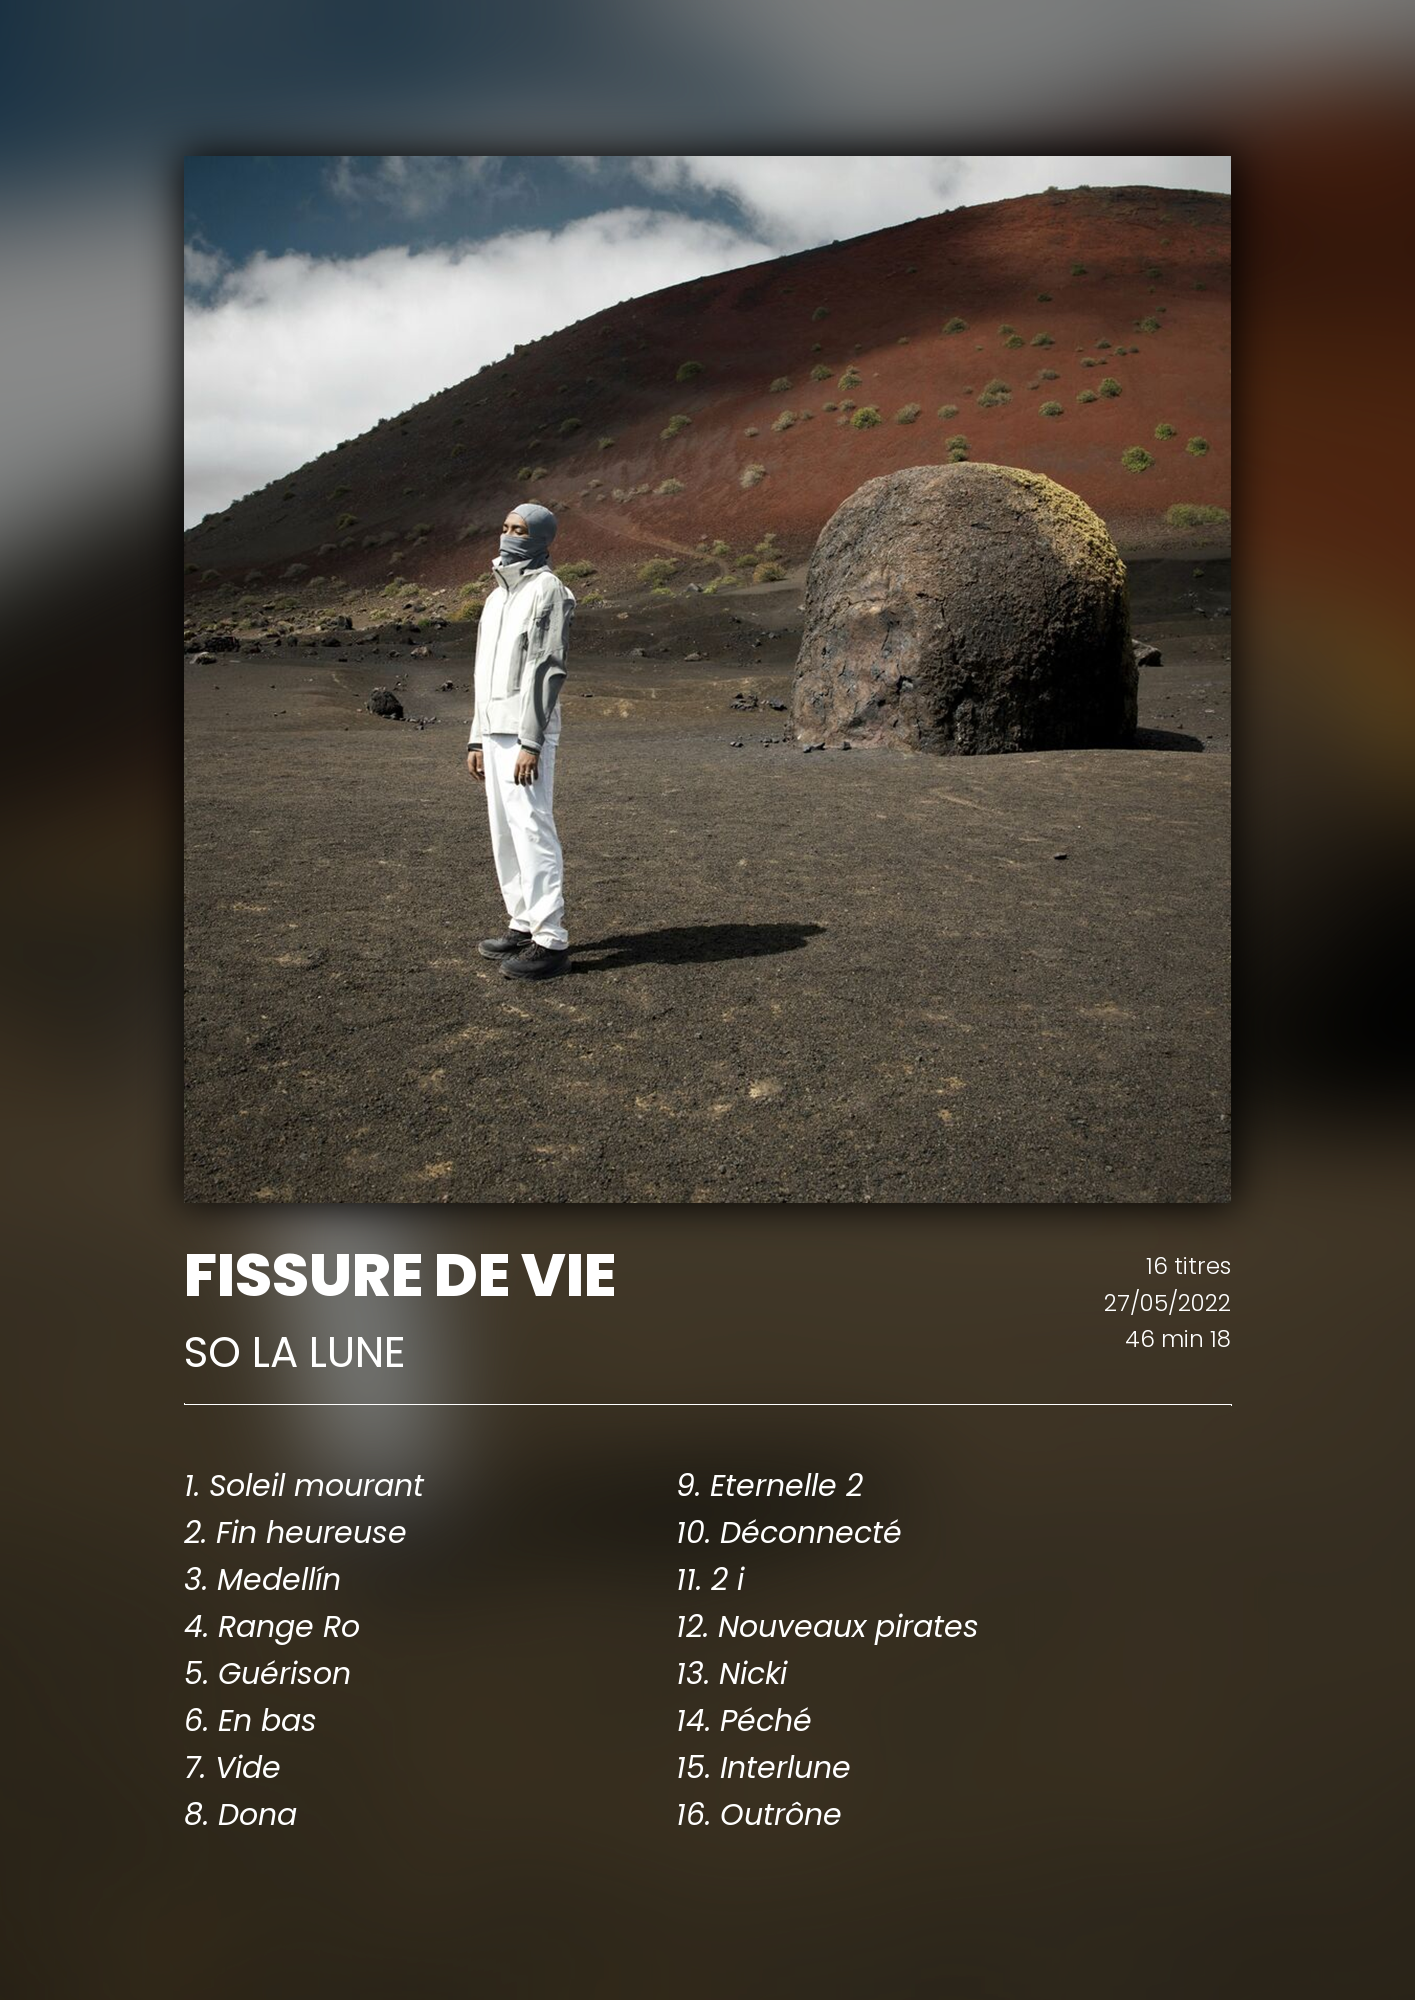
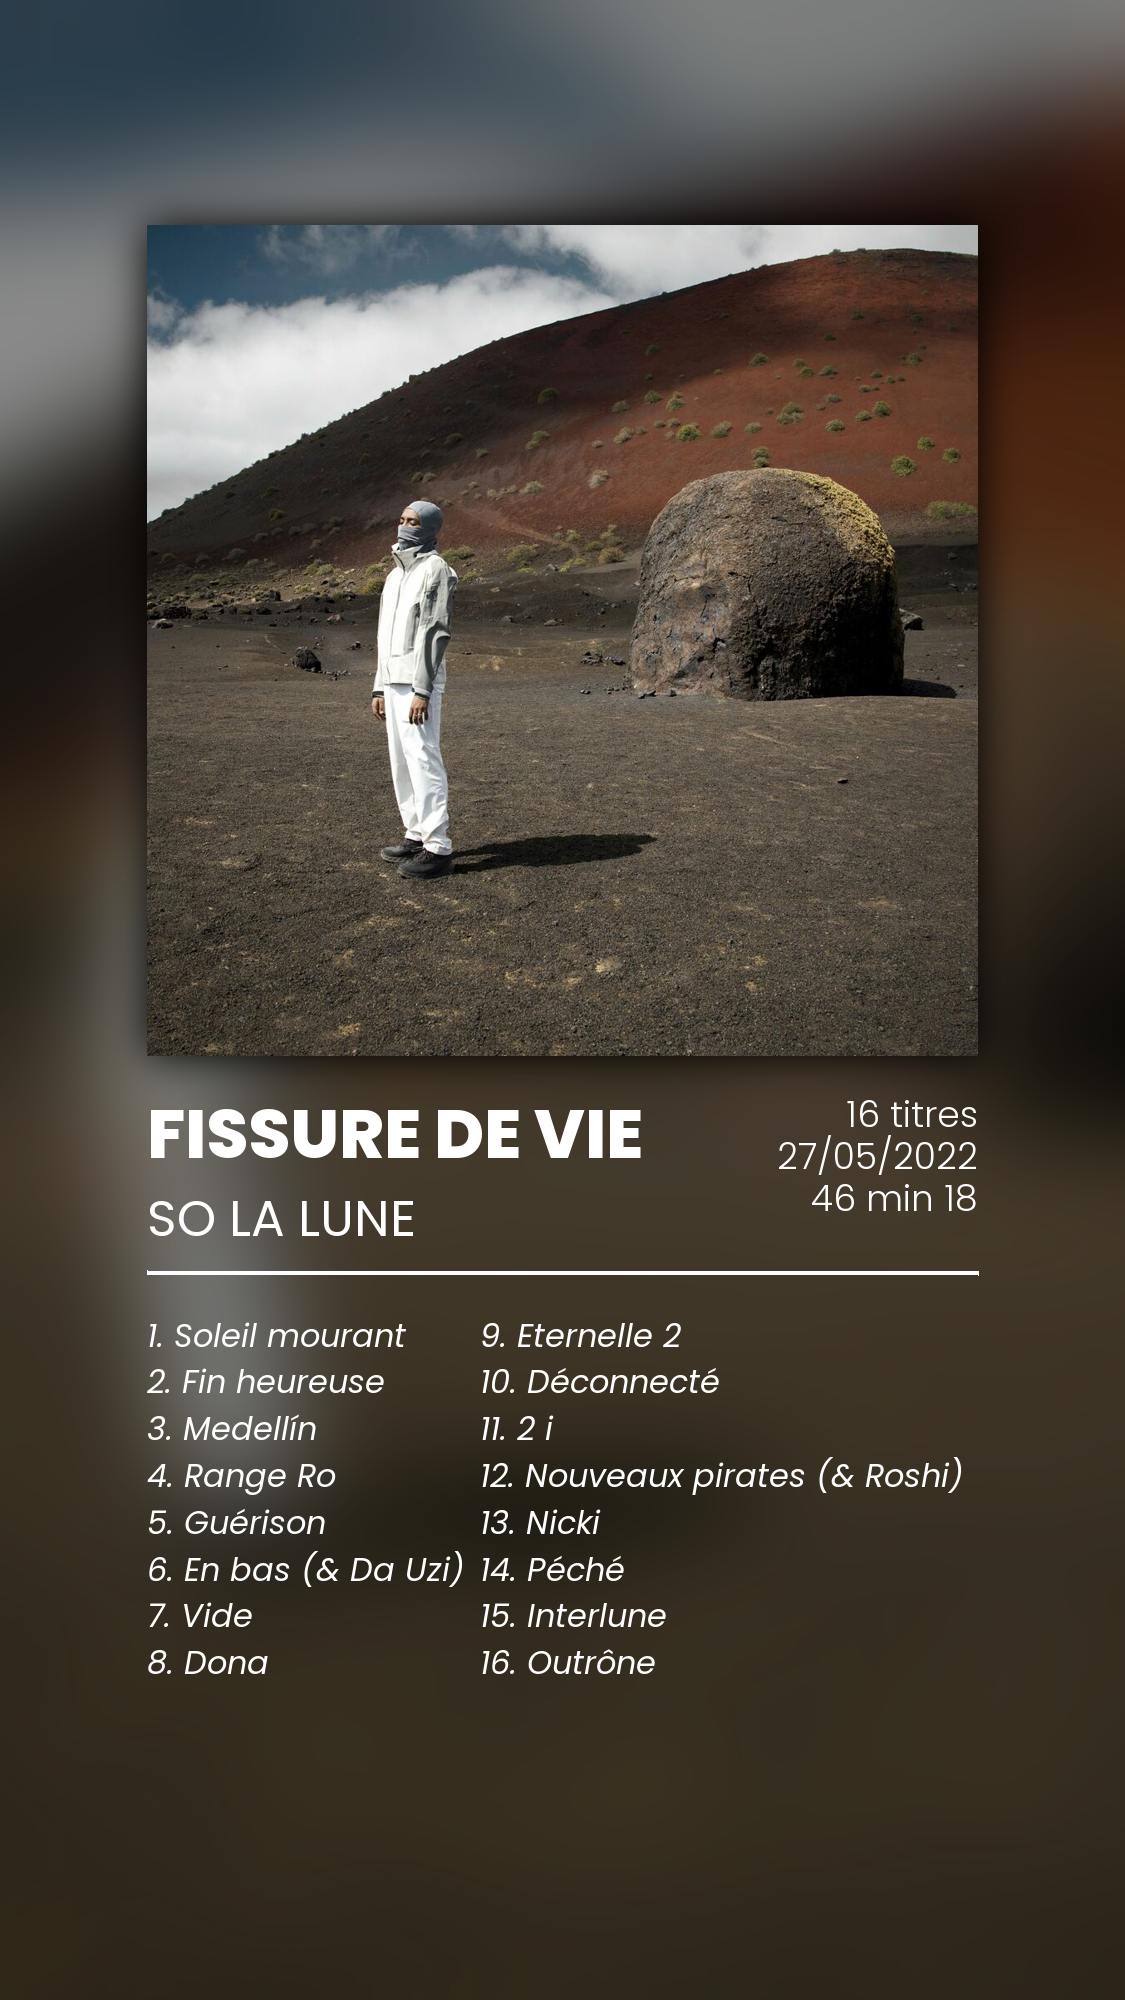
V1.2

Changed region(s): [[0.0, 0.062, 0.9022, 0.93], [0.3733, 0.651, 0.7156, 0.93], [0.7467, 0.713, 0.84, 0.744]]

diff --git a/core.py b/core.py
@@ -163,7 +163,7 @@ def getAlbum(album_to_search):
         track_response_raw = requests.get(track_domain + str(track["id"]))
         track_response = track_response_raw.json()
         if len(track_response["contributors"]) > len(response["contributors"]):
-            formatted_title = formatted_title + " (feat."
+            formatted_title = formatted_title + " (&"
             contributors = []
             for i in range(len(response["contributors"]), len(track_response["contributors"])):
                 if track_response["contributors"][i]["name"] != response["artist"]["name"] and \

diff --git a/album_poster_generator_1.py b/album_poster_generator_1.py
@@ -22,7 +22,7 @@ defaultSetting = core.Setting(
 
 storySetting = defaultSetting.copy(
     poster_width_percentage=56.25,
-    center_image_padding_top_percentage=20,
+    center_image_padding_top_percentage=22,
     default_album_name_font_size_percentage=3.5,
     default_artist_name_font_size_percentage=2.5,
     default_album_infos_font_size_percentage=1.8,
